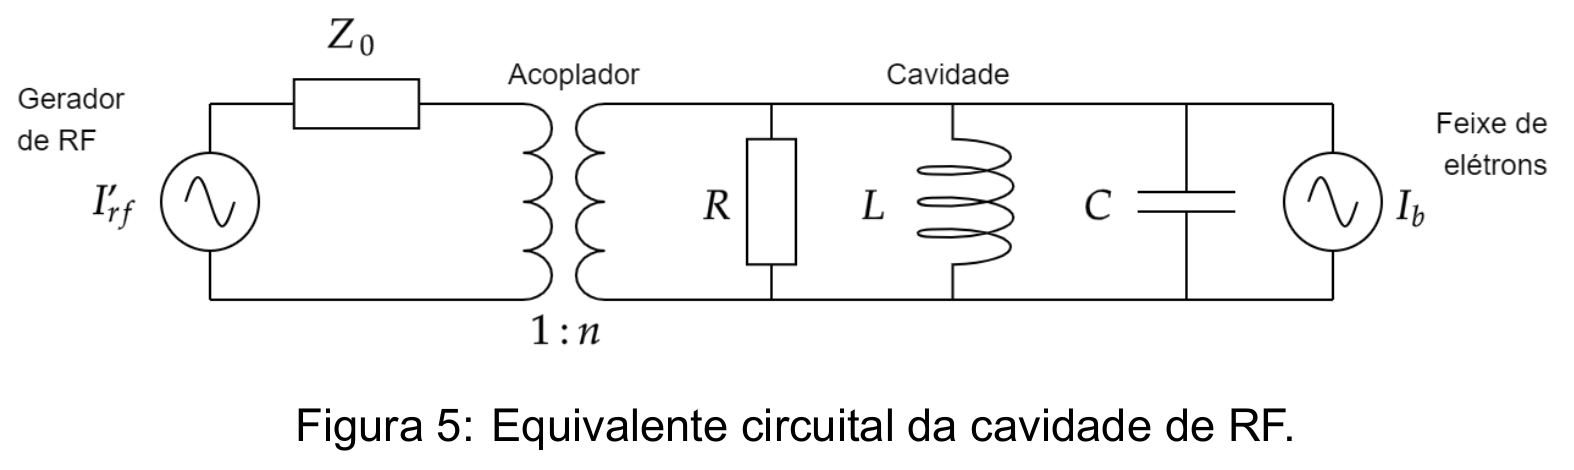
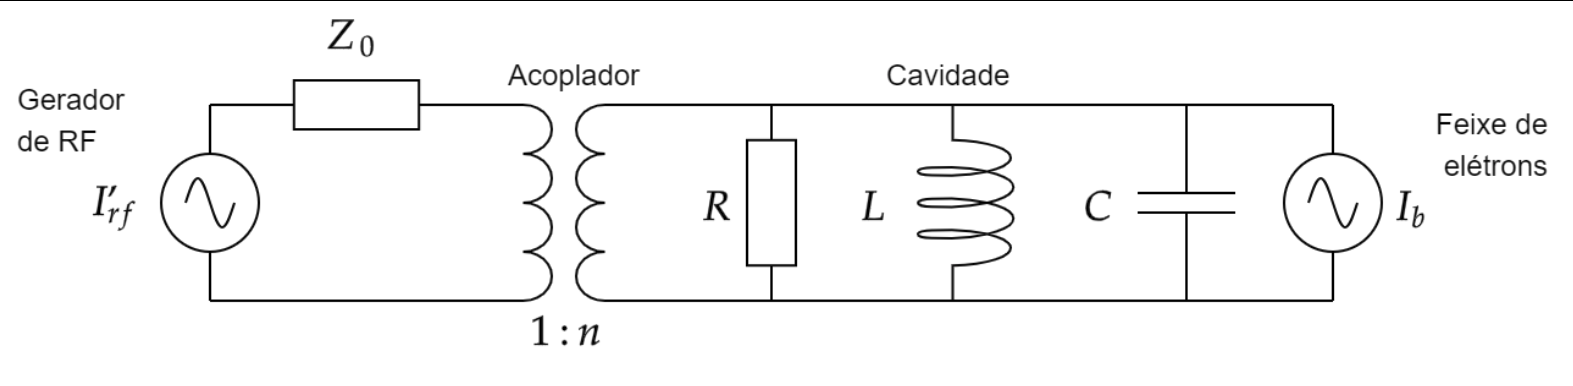
feat: conteúdos

diff --git a/docs/Detecção de amplitude e fase em RF/IQ sampling/IQ sampling.md b/docs/Detecção de amplitude e fase em RF/IQ sampling/IQ sampling.md
@@ -36,7 +36,7 @@ Nesta condição, o avanço de fase entre duas amostras consecutivas é precisam
 
 $\Delta\phi = \omega \cdot T_s = 2\pi f_{IF} \cdot \frac{1}{4 f_{IF}} = \frac{\pi}{2} = 90^\circ$ 
 
-Avaliando a Equação em quatro instantes sucessivos ($t_0, t_1, t_2, t_3$):
+Avaliando $y(t) = I \sin(\omega t) + Q \cos(\omega t)$ em quatro instantes sucessivos ($t_0, t_1, t_2, t_3$):
 
 - Em $\omega t_0 = 0$: $y(t_0) = I \sin(0) + Q \cos(0) = \mathbf{Q}$
 - Em $\omega t_1 = \pi/2$: $y(t_1) = I \sin(\pi/2) + Q \cos(\pi/2) = \mathbf{I}$
@@ -61,7 +61,7 @@ Caso a razão seja outro número inteiro $m$ (com passo angular $\Delta\phi = \f
 
 $\begin{pmatrix} I \\ Q \end{pmatrix} = \frac{1}{\sin\Delta\phi} \begin{pmatrix} \cos(\phi + n\Delta\phi) & -\cos(\phi + (n+1)\Delta\phi) \\ -\sin(\phi + n\Delta\phi) & \sin(\phi + (n+1)\Delta\phi) \end{pmatrix} \begin{pmatrix} y_{n+1} \\ y_n \end{pmatrix}$
 
-O autor destaca que, caso $\Delta\phi$ se afaste substancialmente de $90^\circ$ ou $270^\circ$, o termo $\sin\Delta\phi$ no denominador torna-se pequeno, fazendo com que a estimativa de $I$ e $Q$ fique muito sensível a ruído e erros de amostragem.
+Caso $\Delta\phi$ se afaste substancialmente de $90^\circ$ ou $270^\circ$, o termo $\sin\Delta\phi$ no denominador torna-se pequeno, fazendo com que a estimativa de $I$ e $Q$ fique muito sensível a ruído e erros de amostragem.
 
 ### 5. Limitações e Fontes de Erro do *IQ Sampling* Clássico
 
@@ -74,4 +74,4 @@ Apesar da simplicidade e da baixíssima latência (ideais para malhas de realime
     - O 2.º harmônico dobra sobre a frequência de Nyquist, enquanto o **3.º harmônico sofre aliasing e cai exatamente em cima da frequência fundamental** $f_{IF}$.
     - Em geral, todos os harmônicos ímpares caem sobre a portadora, tornando-se indistinguíveis do sinal real e gerando distorções de medição que não podem ser eliminadas por filtragem linear subsequente.
 
-É justamente para superar essas limitações de harmônicos que o artigo introduz a seguir o **Non-IQ sampling** (onde a razão $f_s/f_{IF} = N/M$ distribui os harmônicos em outras partes do espectro) e o **Digital Down Conversion - DDC**.
+É justamente para superar essas limitações de harmônicos que existem as técnicas de **Non-IQ sampling** (onde a razão $f_s/f_{IF} = N/M$ distribui os harmônicos em outras partes do espectro) e de **Digital Down Conversion (DDC)**.

diff --git a/docs/Modelagem de uma cavidade de RF/Modelagem de uma cavidade de RF.md b/docs/Modelagem de uma cavidade de RF/Modelagem de uma cavidade de RF.md
@@ -110,7 +110,7 @@ $\ddot{v}_C + \left( \frac{n^2 Z_0 + R}{n^2 R Z_0 C} \right) \dot{v}_C + \frac{1
 
 # Da análise no tempo para análise em frequência
 
-Para compreender a dedução detalhada passo a passo, analisemos o circuito apresentado no texto.
+Para compreender a dedução detalhada passo a passo, analisemos novamente o circuito equivalente da cavidade, já com a impedância da linha rebatida para o secundário ($n^2 Z_0$).
 
 ### Passo 1: Aplicação da Lei dos Nós de Kirchhoff (KCL)
 
@@ -179,7 +179,7 @@ $\ddot{v}_C + \dot{v}_C \frac{(n^2 Z_0 + R)}{n^2 R Z_0 C} + \frac{v_C}{LC} = \fr
 
 ### Passo 4: Transformada de Laplace
 
-Para encontrar a função de transferência $\frac{V_C(s)}{I_C(s)}$, aplica-se a **Transformada de Laplace** em ambos os membros da equação diferencial (2.1), considerando condições iniciais nulas ($\mathcal{L}\{\ddot{v}_C\} = s^2 V_C(s)$, $\mathcal{L}\{\dot{v}_C\} = s V_C(s)$ e $\mathcal{L}\{\dot{i}_C\} = s I_C(s)$):
+Para encontrar a função de transferência $\frac{V_C(s)}{I_C(s)}$, aplica-se a **Transformada de Laplace** em ambos os membros da equação diferencial obtida no Passo 3, considerando condições iniciais nulas ($\mathcal{L}\{\ddot{v}_C\} = s^2 V_C(s)$, $\mathcal{L}\{\dot{v}_C\} = s V_C(s)$ e $\mathcal{L}\{\dot{i}_C\} = s I_C(s)$):
 
 $\mathcal{L}\left\{ \ddot{v}_C + \dot{v}_C \frac{(n^2 Z_0 + R)}{n^2 R Z_0 C} + \frac{v_C}{LC} \right\} = \mathcal{L}\left\{ \frac{\dot{i}_C}{C} \right\}$
 
@@ -189,7 +189,7 @@ Coloca-se $V_C(s)$ em evidência no membro esquerdo:
 
 $V_C(s) \left[ s^2 + s \frac{(n^2 Z_0 + R)}{n^2 R Z_0 C} + \frac{1}{LC} \right] = \frac{s}{C} I_C(s)$
 
-Isolando a razão $\frac{V_C(s)}{I_C(s)}$, obtém-se diretamente a equação:
+Isolando a razão $\frac{V_C(s)}{I_C(s)}$, obtém-se a função de transferência:
 
 $\frac{V_C(s)}{I_C(s)} = \frac{s/C}{s^2 + s(n^2 Z_o + R)/n^2 R Z_o C + 1/LC}$
 

diff --git a/docs/Componentes de um sistema de RF/Componentes de um sistema de RF.md b/docs/Componentes de um sistema de RF/Componentes de um sistema de RF.md
@@ -174,7 +174,7 @@ A translação para $500\text{ MHz}$ decorre de restrições da física dos acel
 A cavidade de RF do anel de armazenamento do Sirius é uma estrutura metálica oca cujas dimensões geométricas foram construídas para ressoar no modo fundamental $TM_{010}$ exatamente em $500\text{ MHz}$.
 
 - Se você injetar um sinal a $20\text{ MHz}$ na cavidade, ele se deparará com uma impedância praticamente nula (fora da ressonância, o indutor do circuito equivalente vira um curto-circuito para frequências baixas).
-- Apenas em torno de $500\text{ MHz}$ a cavidade atinge a ressonância paralela, onde sua impedância $Z \approx R_L$ é máxima, acumulando campos elétricos longitudinais de centenas de quilovolts necessários para acelerar as partículas.
+- Apenas em torno de $500\text{ MHz}$ a cavidade atinge a ressonância paralela, onde sua impedância é máxima e puramente resistiva ($Z = R_L = R \mathbin{/\mkern-1mu/} n^2 Z_0$, a resistência *shunt* $R$ da cavidade em paralelo com a impedância da linha rebatida pelo acoplador), acumulando campos elétricos longitudinais de centenas de quilovolts necessários para acelerar as partículas.
 
 #### Sincronismo com o Feixe de Elétrons
 

diff --git a/docs/Detecção de amplitude e fase em RF/Digital Down Conversion/Digital Down Conversion.md b/docs/Detecção de amplitude e fase em RF/Digital Down Conversion/Digital Down Conversion.md
@@ -214,7 +214,7 @@ Para fatores de decimação elevados ($R > 32$, aplicações de banda estreita),
     
 - **Relação com Médias Móveis:**
     
-    O artigo demonstra que um filtro CIC de 1.ª ordem é matematicamente idêntico a um filtro de média móvel recursivo (*running-sum* ou *box-car filter*), cuja função de transferência é uma resposta do tipo sinc:
+    Um filtro CIC de 1.ª ordem é matematicamente idêntico a um filtro de média móvel recursivo (*running-sum* ou *box-car filter*), cuja função de transferência é uma resposta do tipo sinc:
     
     $\vert{}H(f)\vert{} = \left\vert{} \frac{\sin(\pi D \frac{f}{f_{out}})}{\sin(\frac{\pi}{R} \frac{f}{f_{out}})} \right\vert{}^M$
     
@@ -225,7 +225,7 @@ Para fatores de decimação elevados ($R > 32$, aplicações de banda estreita),
 
 ### 4. DDC vs. IQ Sampling Clássico
 
-O documento resume as diferenças cruciais entre a amostragem síncrona simples e o DDC:
+Diferenças cruciais entre a amostragem síncrona simples e o DDC:
 
 | **Característica** | **IQ Demodulation (fs=4fIF)** | **Digital Down Conversion (DDC)** |
 | --- | --- | --- |
